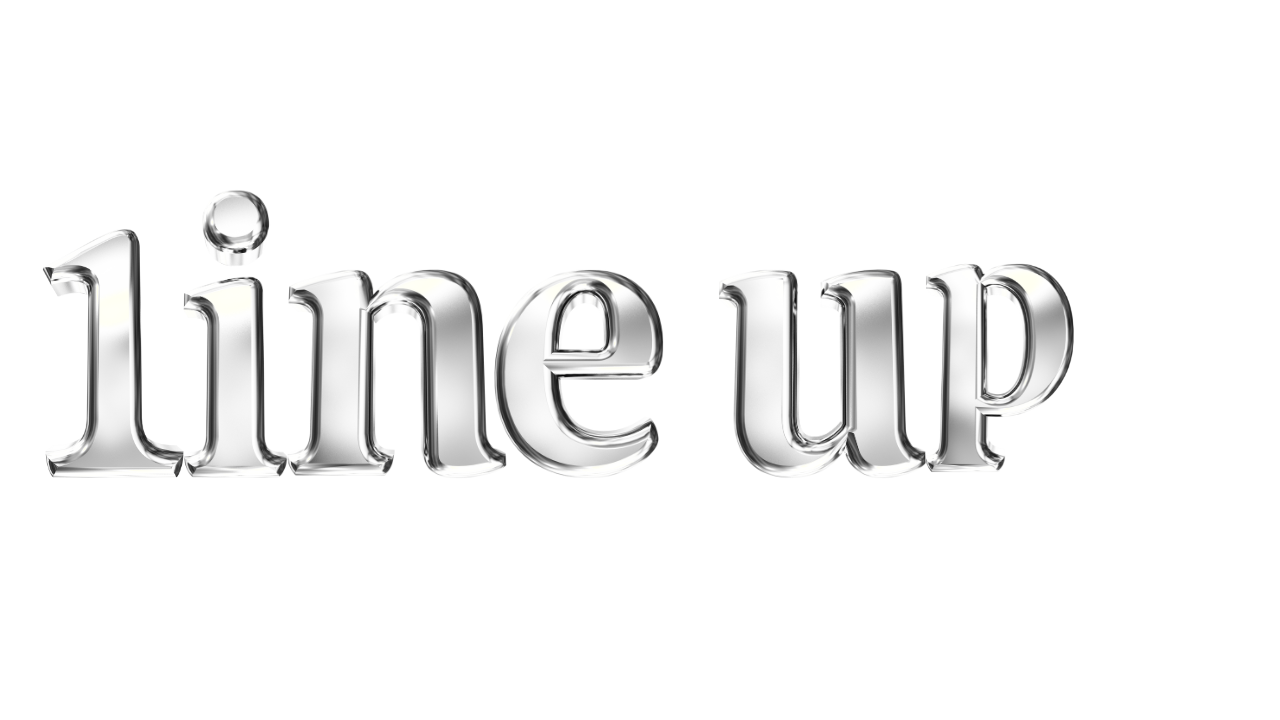
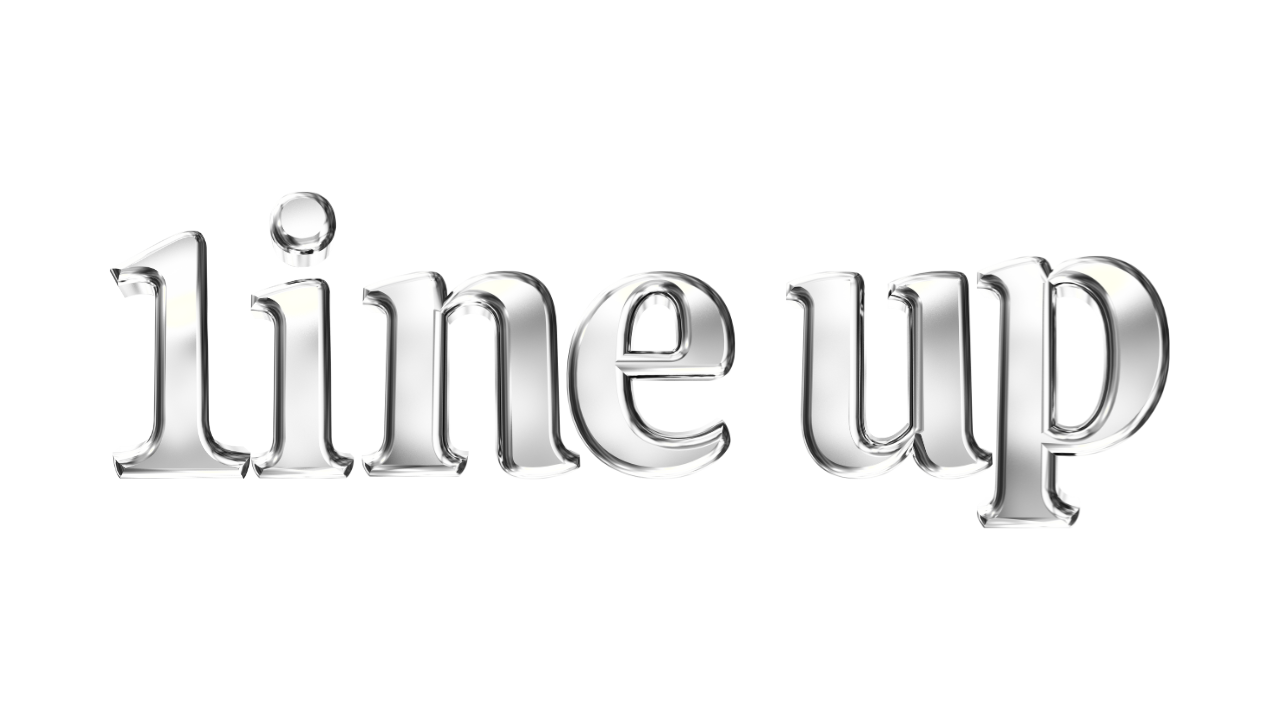
cambio de letras en el menu

Changed region(s): [[0.0312, 0.2444, 0.9375, 0.7333]]

diff --git a/components/Header.tsx b/components/Header.tsx
@@ -90,6 +90,14 @@ const Header: React.FC = () => {
                 >
                     {link.label === 'LINE UP' ? (
                       <img src="/img/letra.png" alt="LINE UP" className="inline-block h-14 lg:h-16 xl:h-20 letra-img" />
+                    ) : link.label === 'INFO' ? (
+                      <img src="/img/info.png" alt="INFO" className="inline-block h-14 lg:h-16 xl:h-20 info-img" />
+                    ) : link.label === 'TICKETS' ? (
+                      <img src="/img/tickets.png" alt="TICKETS" className="inline-block h-14 lg:h-16 xl:h-20 tickets-img" />
+                    ) : link.label === 'SHOP' ? (
+                      <img src="/img/shop.png" alt="SHOP" className="inline-block h-14 lg:h-16 xl:h-20 shop-img" />
+                    ) : link.label === 'INICIO' ? (
+                      <img src="/img/inicio.png" alt="INICIO" className="inline-block h-14 lg:h-16 xl:h-20 inicio-img" />
                     ) : (
                       link.label
                     )}
@@ -142,6 +150,14 @@ const Header: React.FC = () => {
                 >
                 {link.label === 'LINE UP' ? (
                   <img src="/img/letra.png" alt="LINE UP" className="inline-block h-28 letra-img" />
+                ) : link.label === 'INFO' ? (
+                  <img src="/img/info.png" alt="INFO" className="inline-block h-28 info-img" />
+                ) : link.label === 'TICKETS' ? (
+                  <img src="/img/tickets.png" alt="TICKETS" className="inline-block h-28 tickets-img" />
+                ) : link.label === 'SHOP' ? (
+                  <img src="/img/shop.png" alt="SHOP" className="inline-block h-28 shop-img" />
+                ) : link.label === 'INICIO' ? (
+                  <img src="/img/inicio.png" alt="INICIO" className="inline-block h-28 inicio-img" />
                 ) : (
                   link.label
                 )}
@@ -152,6 +168,20 @@ const Header: React.FC = () => {
       
       {/* ensure silver hover shows even if the link is active (higher specificity) */}
       <style>{`
+        /* Ensure each nav link centers its content (text or image) vertically */
+        .header-nav a {
+          display: inline-flex;
+          align-items: center;
+          gap: 0.5rem; /* small spacing if a label is present */
+          line-height: 1;
+        }
+        /* Make images behave predictably inside inline-flex containers */
+        .header-nav a img,
+        .header-nav img {
+          display: block;
+          vertical-align: middle;
+        }
+
         .header-nav .silver-hover:hover {
           color: #cfcfcf !important;
         }
@@ -161,25 +191,57 @@ const Header: React.FC = () => {
           will-change: transform, filter;
           /* ensure the image renders crisply when transformed */
           transform-origin: center;
+          display: block;
         }
         /* Default subtle state so the hover red stands out */
-        .header-nav .letra-img {
+        .header-nav .letra-img,
+        .header-nav .info-img,
+        .header-nav .tickets-img,
+        .header-nav .shop-img,
+        .header-nav .inicio-img {
           filter: grayscale(30%) brightness(0.95);
+        }
+
+        /* Nudge tickets/shop images slightly upward so they visually line up with the others */
+        .header-nav .tickets-img,
+        .header-nav .shop-img {
+          transform: translateY(-3px);
         }
 
         /* When hovering the link or the image, tint the image red strongly and add a glow */
         .header-nav a:hover .letra-img,
-        .header-nav .letra-img:hover {
-          transform: scale(1.08);
+        .header-nav .letra-img:hover,
+        .header-nav a:hover .info-img,
+        .header-nav .info-img:hover,
+        .header-nav a:hover .tickets-img,
+        .header-nav .tickets-img:hover,
+        .header-nav a:hover .shop-img,
+        .header-nav .shop-img:hover {
+          /* keep the small upward nudge for tickets/shop while scaling */
+          transform: translateY(-3px) scale(1.08);
           /* stronger red tint using sepia+hue and an added red glow via drop-shadow */
           filter: sepia(1) saturate(6) hue-rotate(-15deg) brightness(0.95) contrast(1.05) drop-shadow(0 0 12px rgba(255,60,60,0.9));
+        }
+
+        /* INICIO: silver/tin hover effect instead of red */
+        .header-nav a:hover .inicio-img,
+        .header-nav .inicio-img:hover {
+          transform: scale(1.06);
+          /* desaturate for a silver look, brighten slightly and add a subtle white glow */
+          filter: saturate(0) brightness(1.25) contrast(1.05) drop-shadow(0 0 10px rgba(255,255,255,0.65));
         }
 
         /* Slightly different scaling on small screens */
         @media (max-width: 767px) {
           .header-nav a:hover .letra-img,
-          .header-nav .letra-img:hover {
-            transform: scale(1.04);
+          .header-nav .letra-img:hover,
+          .header-nav a:hover .info-img,
+          .header-nav .info-img:hover,
+          .header-nav a:hover .tickets-img,
+          .header-nav .tickets-img:hover,
+          .header-nav a:hover .shop-img,
+          .header-nav .shop-img:hover {
+            transform: translateY(-2px) scale(1.04);
           }
         }
       `}</style>
